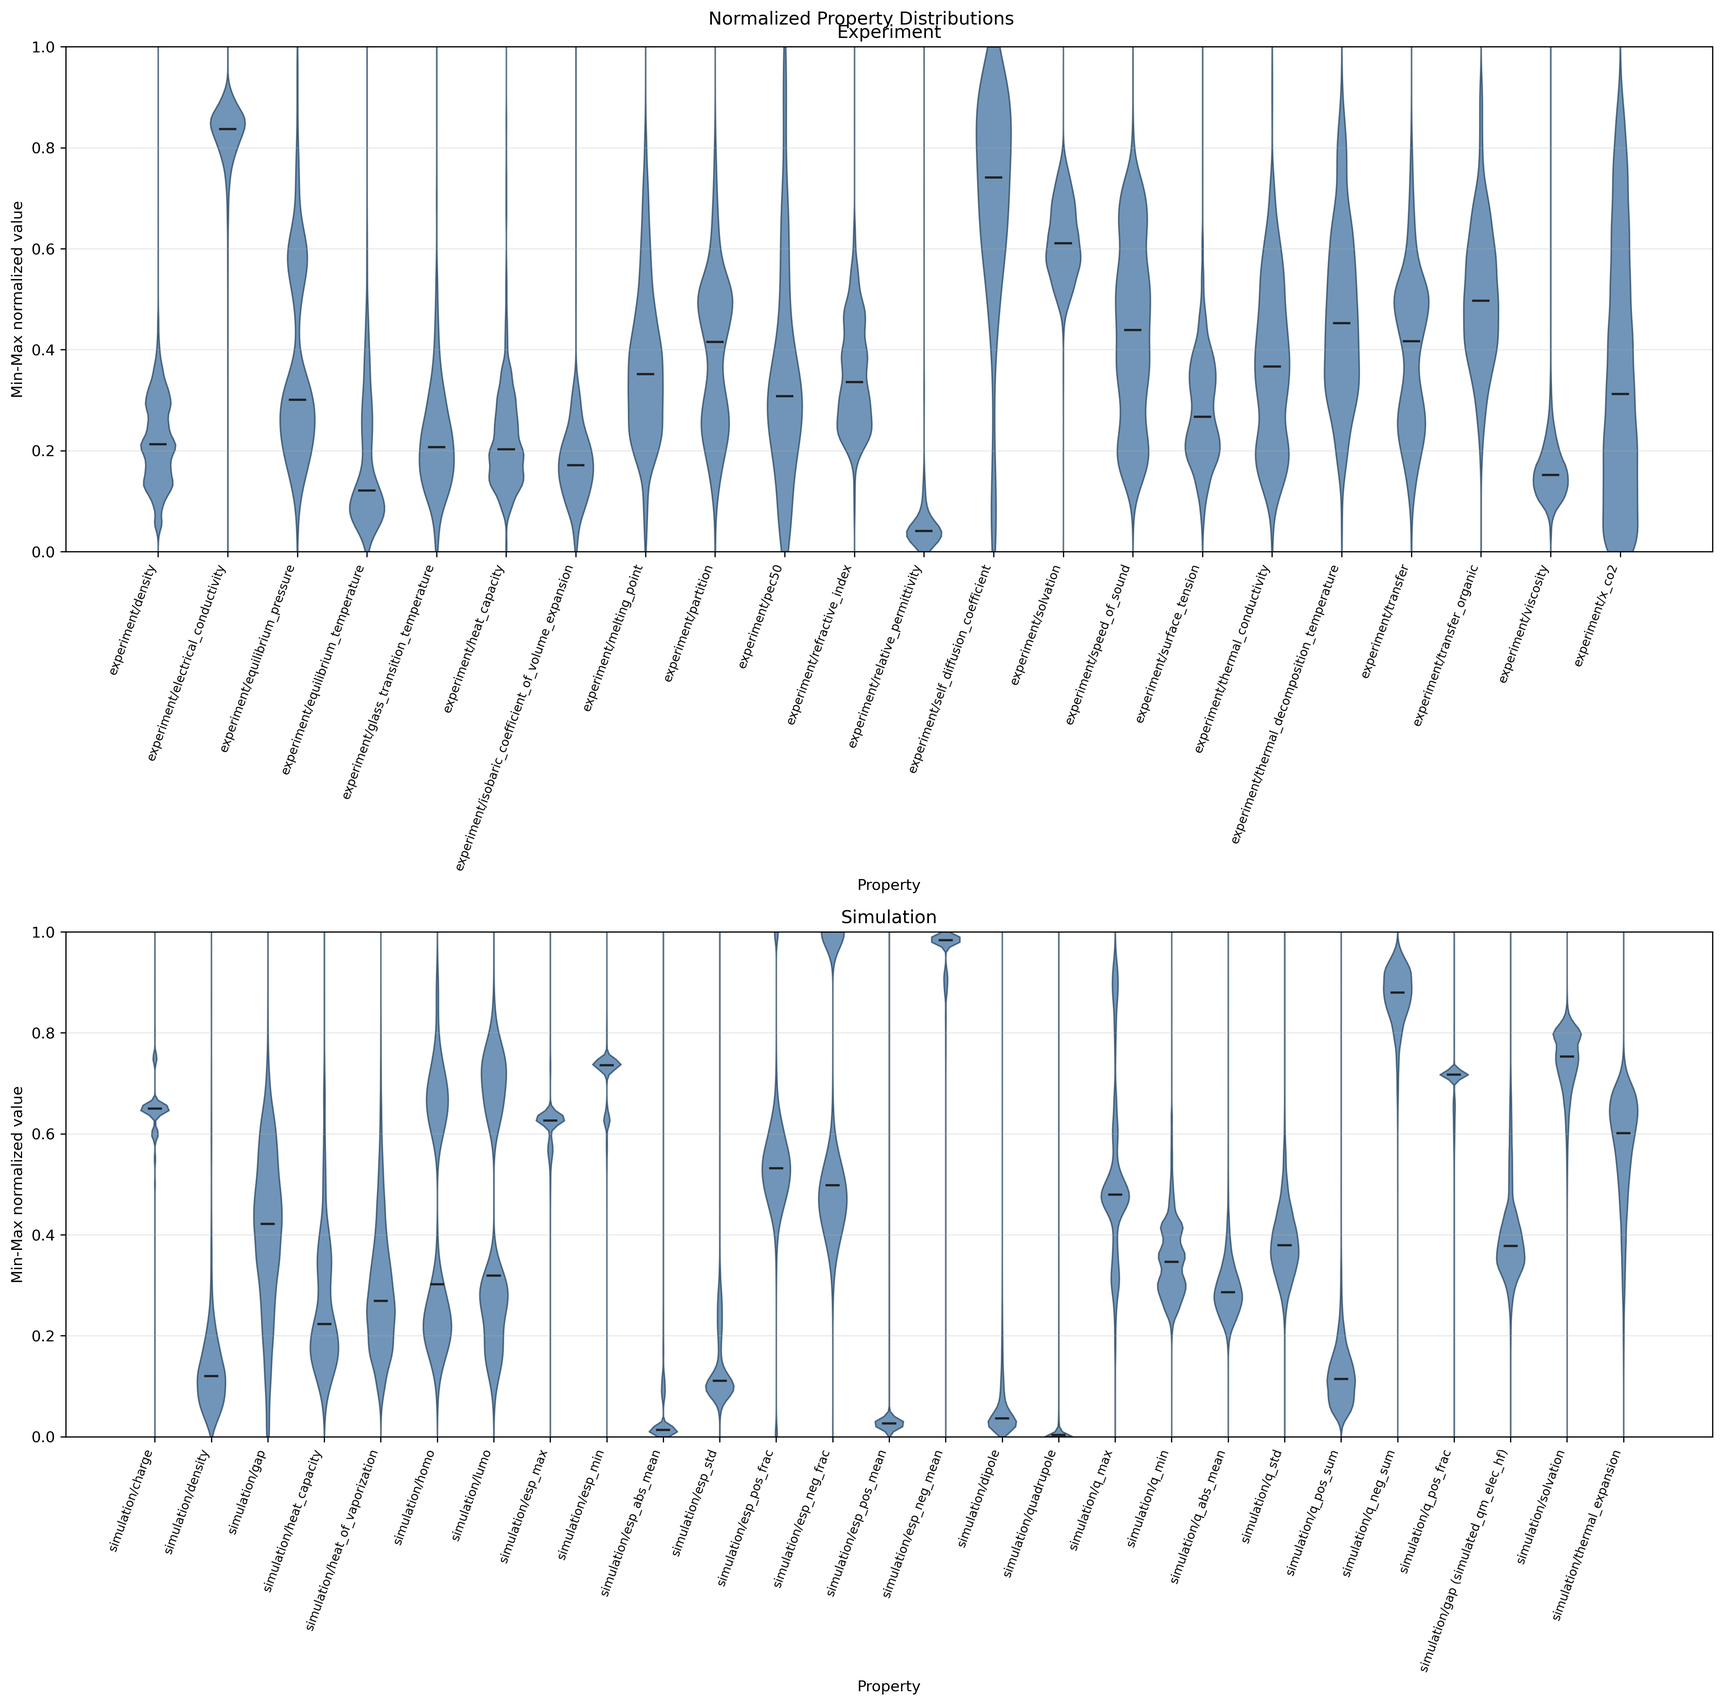
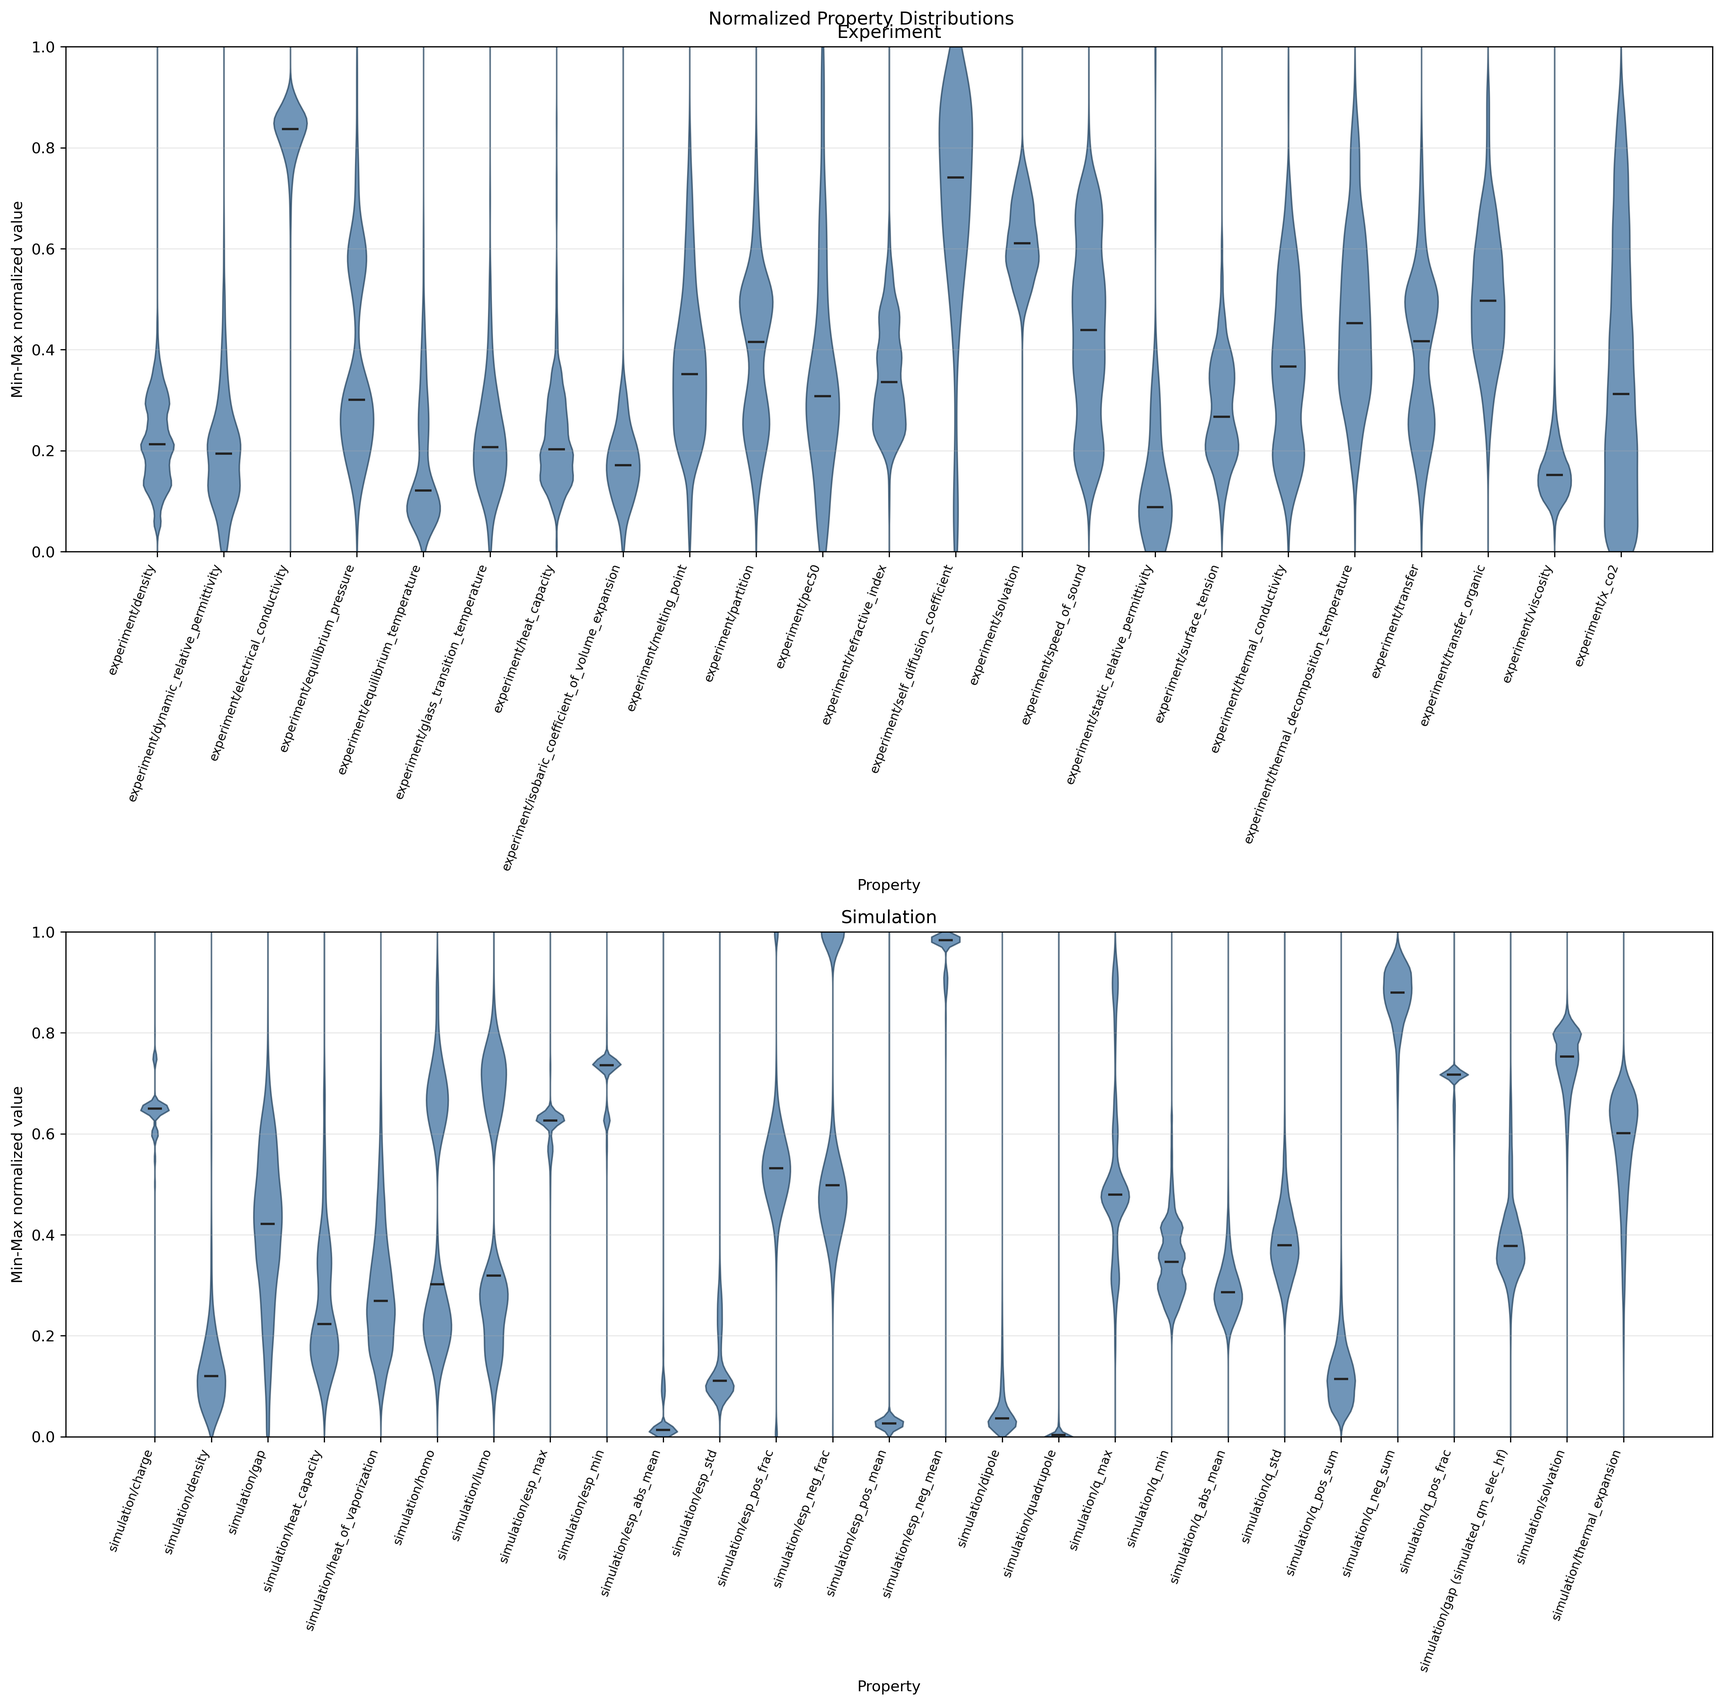
Split relative permittivity by frequency

diff --git a/scripts/analyze_merged_properties.py b/scripts/analyze_merged_properties.py
@@ -68,7 +68,6 @@ PLOTTING_CONDITION_DEFAULTS = {
     "temperature_K": 298.15,
     "pressure_kPa": 101.325,
 }
-MISSING_BUCKET_CONDITION_COLUMNS = {"frequency_MHz", "wavelength_nm"}
 
 
 def parse_args() -> argparse.Namespace:
@@ -596,14 +595,6 @@ def plot_histogram_with_density(
         ax.plot(centers, smoothed, color="#222222", linewidth=1.2)
 
 
-def missing_bucket_value(observed: pd.Series) -> float:
-    minimum = float(observed.min())
-    maximum = float(observed.max())
-    span = maximum - minimum
-    offset = max(span * 0.05, abs(minimum) * 0.05, 0.1)
-    return minimum - offset
-
-
 def numeric_condition_dimensions(df: pd.DataFrame, present: pd.Series) -> list[dict[str, object]]:
     dimensions: list[dict[str, object]] = []
     for column in NUMERIC_CONDITION_COLUMNS:
@@ -619,29 +610,17 @@ def numeric_condition_dimensions(df: pd.DataFrame, present: pd.Series) -> list[d
             slug = "log10_frequency_mhz"
 
         fill_note = ""
-        missing_tick: dict[str, object] | None = None
         missing_mask = present & series.isna()
         missing_count = int(missing_mask.sum())
         if column in PLOTTING_CONDITION_DEFAULTS and missing_count:
             series = series.copy()
             series.loc[missing_mask] = PLOTTING_CONDITION_DEFAULTS[column]
             fill_note = f"filled: {column}={missing_count}"
-        elif column in MISSING_BUCKET_CONDITION_COLUMNS and missing_count:
-            observed = series.loc[present & series.notna()]
-            if observed.empty:
-                continue
-            sentinel = missing_bucket_value(observed)
-            series = series.copy()
-            series.loc[missing_mask] = sentinel
-            fill_note = f"missing bucket: {column}={missing_count}"
-            missing_tick = {"value": sentinel, "label": "NaN"}
 
         if series.loc[present].notna().any():
             dimension: dict[str, object] = {"label": label, "slug": slug, "series": series}
             if fill_note:
                 dimension["fill_note"] = fill_note
-            if missing_tick is not None:
-                dimension["missing_tick"] = missing_tick
             dimensions.append(dimension)
     return dimensions
 
@@ -783,33 +762,6 @@ def plot_normalized_property_violin(
     save_figure(fig, output_path, dpi)
 
 
-def apply_missing_tick(ax: plt.Axes, axis: str, dimension: dict[str, object]) -> None:
-    missing_tick = dimension.get("missing_tick")
-    if not missing_tick:
-        return
-    value = float(missing_tick["value"])
-    ticks = list(ax.get_xticks() if axis == "x" else ax.get_yticks())
-    if not any(np.isclose(tick, value) for tick in ticks):
-        ticks.append(value)
-    ticks = sorted(ticks)
-    labels = [str(missing_tick["label"]) if np.isclose(tick, value) else f"{tick:g}" for tick in ticks]
-    if axis == "x":
-        ax.set_xticks(ticks)
-        ax.set_xticklabels(labels)
-    else:
-        ax.set_yticks(ticks)
-        ax.set_yticklabels(labels)
-
-
-def fill_notes_for_dimensions(*dimensions: dict[str, object]) -> list[str]:
-    notes: list[str] = []
-    for dimension in dimensions:
-        note = dimension.get("fill_note")
-        if note and str(note) not in notes:
-            notes.append(str(note))
-    return notes
-
-
 def plot_property_distribution_2d(
     plot_df: pd.DataFrame,
     x_dim: dict[str, object],
@@ -852,15 +804,10 @@ def plot_property_distribution_2d(
     ax_main.grid(alpha=0.2)
     ax_histx.grid(axis="y", alpha=0.2)
     ax_histy.grid(axis="x", alpha=0.2)
-    apply_missing_tick(ax_main, "x", x_dim)
-    apply_missing_tick(ax_main, "y", y_dim)
     title = (
         f"{summary_row['bucket']}/{summary_row['property']} distribution: "
         f"{x_dim['label']} vs {y_dim['label']}"
     )
-    notes = fill_notes_for_dimensions(x_dim, y_dim)
-    if notes:
-        title = f"{title}\n{'; '.join(notes)}"
     ax_histx.set_title(title)
     save_figure(fig, output_path, dpi)
 

diff --git a/scripts/structure_cleaned_ilthermo.py b/scripts/structure_cleaned_ilthermo.py
@@ -36,6 +36,10 @@ DISCARDED_COLUMNS = {
     "note",
     "source_text",
 }
+STATIC_RELATIVE_PERMITTIVITY_LABEL = "static_relative_permittivity_unitless"
+DYNAMIC_RELATIVE_PERMITTIVITY_LABEL = "dynamic_relative_permittivity_unitless"
+STATIC_RELATIVE_PERMITTIVITY_OUTPUT = "ilt_static_relative_permittivity_structured.csv"
+DYNAMIC_RELATIVE_PERMITTIVITY_OUTPUT = "ilt_dynamic_relative_permittivity_structured.csv"
 
 
 def clean_text(value: object) -> str:
@@ -111,30 +115,73 @@ def drop_liquid_only_phase(df: pd.DataFrame) -> pd.DataFrame:
     return df
 
 
-def structure_cleaned_ilthermo_file(input_path: Path, output_path: Path, property_slug: str) -> pd.DataFrame:
+def structure_cleaned_ilthermo_frame(
+    df: pd.DataFrame,
+    property_slug: str,
+    label_column: str | None = None,
+) -> pd.DataFrame:
     spec = ILTHERMO_SPECS[property_slug]
-    df = pd.read_csv(input_path)
     if "label" not in df.columns:
-        raise ValueError(f"{input_path} missing required label column")
+        raise ValueError("missing required label column")
     if property_slug == "electrical_conductivity" and "frequency_MHz" in df.columns:
         df = df[df["frequency_MHz"].isna()]
     if property_slug == "speed_of_sound" and "frequency_MHz" in df.columns:
         df = df.drop(columns=["frequency_MHz"])
 
+    output_label = label_column or spec.label_column
     rows = []
     for _, csv_row in df.iterrows():
         csv_row = csv_row.copy()
         csv_row["label"] = transform_cleaned_label(csv_row["label"], property_slug)
-        rows.append(cleaned_row(csv_row, spec.label_column))
-    out = ordered_frame(rows, [spec.label_column]).drop_duplicates().reset_index(drop=True)
+        rows.append(cleaned_row(csv_row, output_label))
+    out = ordered_frame(rows, [output_label]).drop_duplicates().reset_index(drop=True)
     out = drop_liquid_only_phase(out)
+    return out
+
+
+def structure_cleaned_ilthermo_file(input_path: Path, output_path: Path, property_slug: str) -> pd.DataFrame:
+    df = pd.read_csv(input_path)
+    try:
+        out = structure_cleaned_ilthermo_frame(df, property_slug)
+    except ValueError as exc:
+        if str(exc) == "missing required label column":
+            raise ValueError(f"{input_path} missing required label column") from exc
+        raise
     return write_frame(out, output_path)
+
+
+def structure_relative_permittivity_files(input_path: Path, output_dir: Path) -> None:
+    df = pd.read_csv(input_path)
+    if "frequency_MHz" in df.columns:
+        frequencies = pd.to_numeric(df["frequency_MHz"], errors="coerce")
+        static_mask = frequencies.isna() | frequencies.eq(0)
+    else:
+        static_mask = pd.Series(True, index=df.index)
+
+    static_input = df.loc[static_mask].drop(columns=["frequency_MHz"], errors="ignore")
+    dynamic_input = df.loc[~static_mask].copy()
+    static = structure_cleaned_ilthermo_frame(
+        static_input,
+        "relative_permittivity",
+        STATIC_RELATIVE_PERMITTIVITY_LABEL,
+    )
+    dynamic = structure_cleaned_ilthermo_frame(
+        dynamic_input,
+        "relative_permittivity",
+        DYNAMIC_RELATIVE_PERMITTIVITY_LABEL,
+    )
+    write_frame(static, output_dir / STATIC_RELATIVE_PERMITTIVITY_OUTPUT)
+    write_frame(dynamic, output_dir / DYNAMIC_RELATIVE_PERMITTIVITY_OUTPUT)
 
 
 def structure_cleaned_ilthermo(input_dir: Path, output_dir: Path) -> None:
     for slug, spec in ILTHERMO_SPECS.items():
         input_path = input_dir / spec.output_name
         if not input_path.exists():
+            continue
+        if slug == "relative_permittivity":
+            structure_relative_permittivity_files(input_path, output_dir)
+            (output_dir / spec.output_name).unlink(missing_ok=True)
             continue
         structure_cleaned_ilthermo_file(input_path, output_dir / spec.output_name, slug)
 

diff --git a/tests/test_structure_raw_data.py b/tests/test_structure_raw_data.py
@@ -504,6 +504,52 @@ def test_structure_cleaned_ilthermo_file_drops_speed_of_sound_frequency_conditio
     assert df["speed_of_sound_m/s"].tolist() == [1200.0, 1180.0]
 
 
+def test_structure_cleaned_ilthermo_splits_static_and_dynamic_relative_permittivity(tmp_path: Path):
+    from scripts.structure_cleaned_ilthermo import structure_cleaned_ilthermo
+
+    input_dir = tmp_path / "cleaned" / "ilt"
+    output_dir = tmp_path / "cleaned" / "ILThermo"
+    input_dir.mkdir(parents=True)
+    legacy_path = output_dir / "ilt_relative_permittivity_structured.csv"
+    output_dir.mkdir(parents=True)
+    pd.DataFrame({"legacy": [True]}).to_csv(legacy_path, index=False)
+    pd.DataFrame(
+        {
+            "cation": ["C", "CC", "CCC", "CCCC"],
+            "anion": ["[Cl-]", "[Br-]", "[F-]", "[I-]"],
+            "temperature_K": [298.15, 298.15, 298.15, 298.15],
+            "pressure_kPa": [101.325, 101.325, 101.325, 101.325],
+            "frequency_MHz": [0.0, None, 10.0, 100.0],
+            "label": [20.0, 21.0, 22.0, 23.0],
+        }
+    ).to_csv(input_dir / "ilt_relative_permittivity_structured.csv", index=False)
+
+    structure_cleaned_ilthermo(input_dir, output_dir)
+
+    static = pd.read_csv(output_dir / "ilt_static_relative_permittivity_structured.csv")
+    dynamic = pd.read_csv(output_dir / "ilt_dynamic_relative_permittivity_structured.csv")
+    assert list(static.columns) == [
+        "cation",
+        "anion",
+        "temperature_K",
+        "pressure_kPa",
+        "static_relative_permittivity_unitless",
+    ]
+    assert static["static_relative_permittivity_unitless"].tolist() == [20.0, 21.0]
+    assert "frequency_MHz" not in static.columns
+    assert list(dynamic.columns) == [
+        "cation",
+        "anion",
+        "temperature_K",
+        "pressure_kPa",
+        "frequency_MHz",
+        "dynamic_relative_permittivity_unitless",
+    ]
+    assert dynamic["frequency_MHz"].tolist() == [10.0, 100.0]
+    assert dynamic["dynamic_relative_permittivity_unitless"].tolist() == [22.0, 23.0]
+    assert not legacy_path.exists()
+
+
 def test_structure_cleaned_ilthermo_directory_cli(tmp_path: Path):
     import subprocess
     import sys

diff --git a/tests/test_analyze_merged_properties.py b/tests/test_analyze_merged_properties.py
@@ -411,7 +411,7 @@ def test_normalized_property_violin_uses_experiment_and_simulation_subplots(tmp_
     assert not axes[0].get_shared_x_axes().joined(axes[0], axes[1])
 
 
-def test_numeric_condition_dimensions_fill_missing_values_for_plotting():
+def test_numeric_condition_dimensions_only_fill_temperature_and_pressure_for_plotting():
     df = pd.DataFrame(
         {
             "temperature_K": [None, 310.0, 320.0, 330.0],
@@ -434,16 +434,14 @@ def test_numeric_condition_dimensions_fill_missing_values_for_plotting():
     assert dimensions["pressure_kpa"]["fill_note"] == "filled: pressure_kPa=1"
 
     frequency = dimensions["log10_frequency_mhz"]
-    assert frequency["series"].isna().sum() == 0
-    assert frequency["missing_tick"]["label"] == "NaN"
-    assert frequency["missing_tick"]["value"] < 0.0
-    assert frequency["fill_note"] == "missing bucket: frequency_MHz=2"
+    assert frequency["series"].isna().sum() == 2
+    assert "missing_tick" not in frequency
+    assert "fill_note" not in frequency
 
     wavelength = dimensions["wavelength_nm"]
-    assert wavelength["series"].isna().sum() == 0
-    assert wavelength["missing_tick"]["label"] == "NaN"
-    assert wavelength["missing_tick"]["value"] < 589.0
-    assert wavelength["fill_note"] == "missing bucket: wavelength_nm=2"
+    assert wavelength["series"].isna().sum() == 2
+    assert "missing_tick" not in wavelength
+    assert "fill_note" not in wavelength
 
 
 def test_system_frequency_uses_linear_x_axis(tmp_path: Path, monkeypatch):

diff --git a/tests/test_merge_data.py b/tests/test_merge_data.py
@@ -77,6 +77,34 @@ def test_refractive_index_missing_wavelength_defaults_to_sodium_d_line(tmp_path:
     assert out["wavelength_nm"].isna().sum() == 0
 
 
+def test_relative_permittivity_labels_merge_into_static_and_dynamic_files(tmp_path: Path):
+    input_root = tmp_path / "cleaned"
+    output_root = tmp_path / "merged"
+    base = {
+        "cation": "CC[n+]1ccn(C)c1",
+        "anion": "F[B-](F)(F)F",
+        "temperature_K": 298.15,
+        "pressure_kPa": 101.325,
+    }
+    write_csv(
+        input_root / "ILThermo" / "ilt_static_relative_permittivity_structured.csv",
+        [{**base, "static_relative_permittivity_unitless": 12.0}],
+    )
+    write_csv(
+        input_root / "ILThermo" / "ilt_dynamic_relative_permittivity_structured.csv",
+        [{**base, "frequency_MHz": 10.0, "dynamic_relative_permittivity_unitless": 8.0}],
+    )
+
+    merge_data(input_root, output_root)
+
+    static = pd.read_csv(output_root / "experiment" / "static_relative_permittivity.csv")
+    dynamic = pd.read_csv(output_root / "experiment" / "dynamic_relative_permittivity.csv")
+    assert "frequency_MHz" not in static.columns
+    assert static.loc[0, "static_relative_permittivity_unitless"] == 12.0
+    assert dynamic.loc[0, "frequency_MHz"] == 10.0
+    assert dynamic.loc[0, "dynamic_relative_permittivity_unitless"] == 8.0
+
+
 def test_simulation_stays_separate_from_experiment_for_same_property(tmp_path: Path):
     input_root = tmp_path / "cleaned"
     output_root = tmp_path / "merged"

diff --git a/analysis/property_analysis_report.md b/analysis/property_analysis_report.md
@@ -2,11 +2,11 @@
 
 ## Global Summary
 
-- Analyzed properties: 49
+- Analyzed properties: 50
 - Total data points across analyzed properties: 1913874
-- Sum of property-level unique systems: 1617397
+- Sum of property-level unique systems: 1617417
 - Properties recommended for system holdout test: 43
-- Properties recommended for grouped CV: 6
+- Properties recommended for grouped CV: 7
 - Properties recommended for leave-one-system-out or descriptive analysis: 0
 
 ## Largest Properties
@@ -17,14 +17,14 @@
 | experiment | density | 98517 | 6206 | system_holdout_test |
 | experiment | viscosity | 45804 | 2750 | system_holdout_test |
 | experiment | solvation | 44400 | 3611 | system_holdout_test |
-| simulation | gap | 28213 | 27275 | system_holdout_test |
 | simulation | esp_min | 28213 | 27275 | system_holdout_test |
-| simulation | esp_abs_mean | 28213 | 27275 | system_holdout_test |
+| simulation | gap | 28213 | 27275 | system_holdout_test |
 | simulation | esp_std | 28213 | 27275 | system_holdout_test |
+| simulation | esp_abs_mean | 28213 | 27275 | system_holdout_test |
 | simulation | esp_max | 28213 | 27275 | system_holdout_test |
 | simulation | q_max | 28212 | 27274 | system_holdout_test |
+| simulation | q_std | 28212 | 27274 | system_holdout_test |
 | simulation | q_abs_mean | 28212 | 27274 | system_holdout_test |
-| simulation | quadrupole | 28212 | 27274 | system_holdout_test |
 
 ## High Leakage Risk Properties
 
@@ -32,6 +32,7 @@ These properties should not be split by random rows because repeated systems can
 
 | bucket | property | unique_systems | multi_point_system_ratio | max_points_per_system |
 | --- | --- | --- | --- | --- |
+| experiment | dynamic_relative_permittivity | 49 | 1.0 | 18 |
 | simulation | heat_of_vaporization | 13441 | 0.9965032363663417 | 2 |
 | simulation | density | 12554 | 0.9949816791460889 | 9 |
 | experiment | x_co2 | 124 | 0.9919354838709677 | 671 |
@@ -43,7 +44,6 @@ These properties should not be split by random rows because repeated systems can
 | experiment | electrical_conductivity | 705 | 0.8042553191489362 | 319 |
 | experiment | density | 6206 | 0.7982597486303578 | 1844 |
 | experiment | refractive_index | 754 | 0.7970822281167109 | 237 |
-| experiment | solvation | 3611 | 0.7507615618942122 | 32 |
 
 ## System Holdout Test Candidates
 
@@ -68,7 +68,8 @@ These properties should not be split by random rows because repeated systems can
 | --- | --- | --- | --- |
 | experiment | isobaric_coefficient_of_volume_expansion | 25 | 894 |
 | experiment | self_diffusion_coefficient | 36 | 382 |
-| experiment | relative_permittivity | 73 | 947 |
+| experiment | static_relative_permittivity | 44 | 65 |
+| experiment | dynamic_relative_permittivity | 49 | 882 |
 | experiment | equilibrium_pressure | 95 | 2029 |
 | experiment | thermal_conductivity | 112 | 1597 |
 | experiment | x_co2 | 124 | 9683 |
@@ -82,9 +83,9 @@ None.
 - condition_availability: 1
 - coverage: 4
 - normalized_property_violin: 1
-- property_distribution_1d: 49
-- property_distribution_2d: 50
-- system_frequency: 49
+- property_distribution_1d: 50
+- property_distribution_2d: 53
+- system_frequency: 50
 
 Key summary figures:
 - `figures/coverage/property_coverage_all.png`
